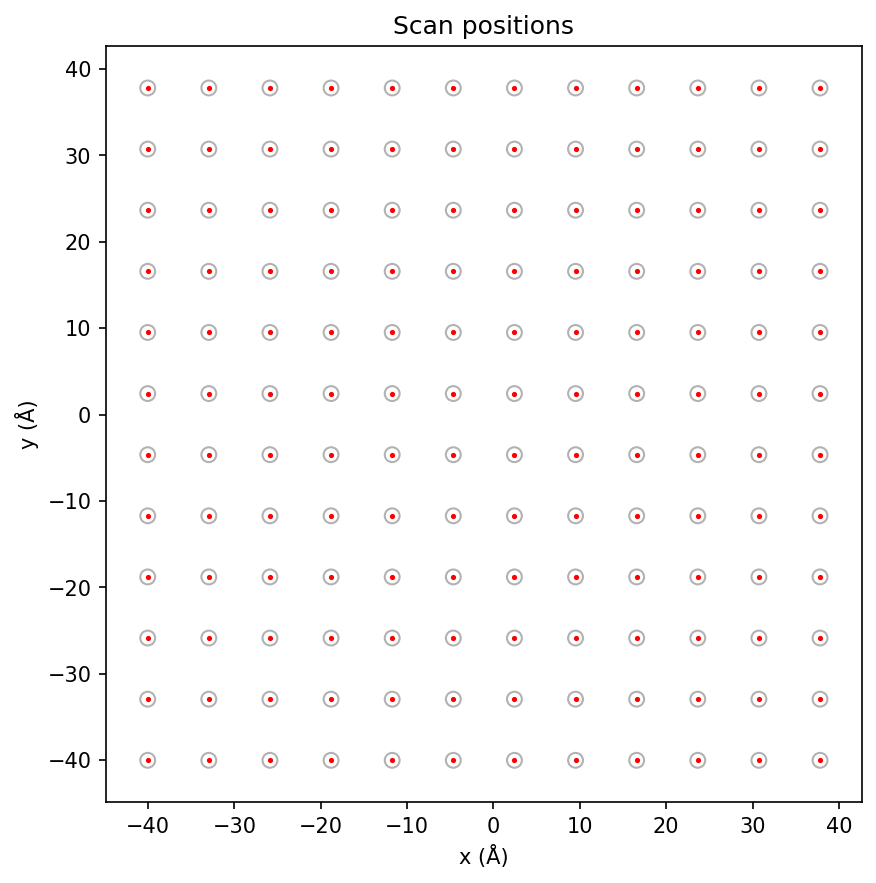
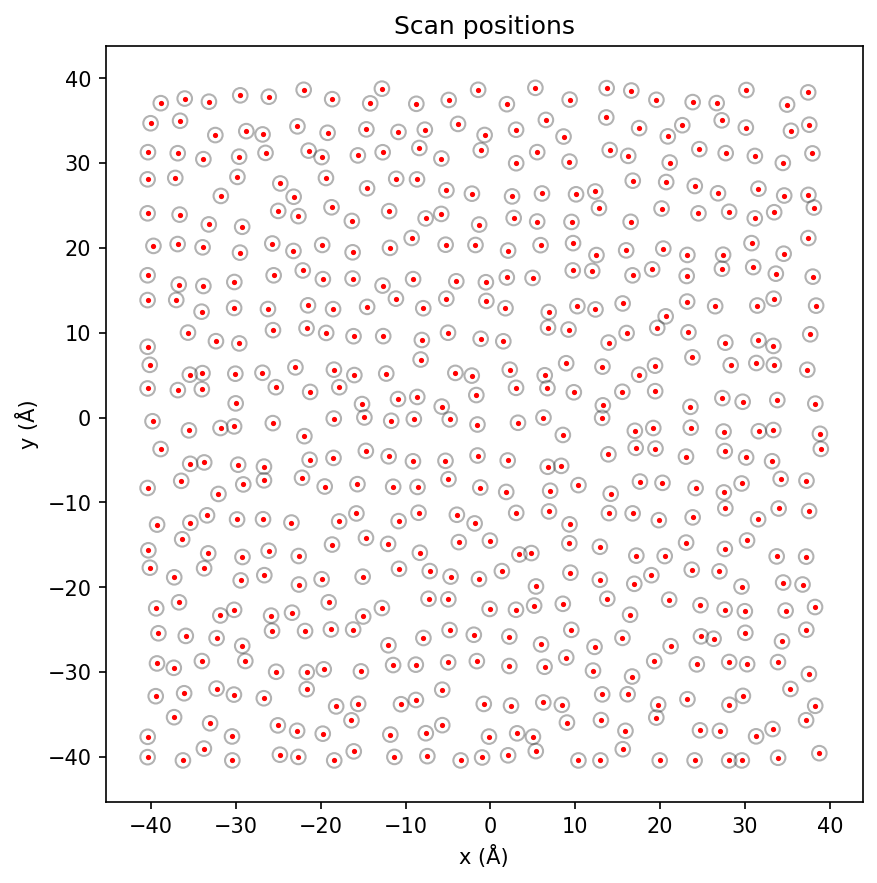
Regularize sparse-sample ePIE — 36-atom reconstruction now converges
The 36-atom default was numerically fitting diffraction patterns but
landing in a local minimum: object dots at scan-grid positions, probe
scrambled. Fix by adding the regularizers that sparse ptychography
needs and documenting the fundamental probe/object degeneracy:

multislice_ePIE additions:
- probe_fourier_support: amplitude-locked projection onto the aperture.
  F(probe) = aperture · exp(iφ), collapsing the probe to |aperture| real
  degrees of freedom (one phase per in-aperture bin). Implemented via
  _project_probe_to_aperture.
- probe_warmup_iters: keep probe fixed (beta=0) for the first N iters so
  the object can settle before probe/object ambiguity kicks in.
- object_constraint='phase_nonneg': for O = exp(i·σ·V) with V ≥ 0 this
  is physically exact (|O|=1 ∧ phase≥0), strictly tighter than
  phase_only, and kills the phase-sign ambiguity that was producing
  random-phase artefacts.

tutorial.py:
- Scan positions now jitter by ±scan_step/3. A perfectly regular raster
  aliases with the atom lattice in sparse ptycho, producing a moiré
  grid artefact.
- scan_step reduced to ¼·in_plane_spacing (was ½) so each atom gets
  multiple probe placements for ePIE to triangulate.
- Sparse-default config: probe fixed to its calibrated value (beta_0=0)
  and only the object is reconstructed. Same as how aberration-corrected
  STEM works in practice — χ(k) is measured during alignment. Residual
  drops cleanly 16× and the 6×6 atom grid reconstructs with correct
[…]

diff --git a/microptycho.py b/microptycho.py
@@ -150,9 +150,16 @@ class MicroPtycho:
             return field
         if constraint in ("unit", "phase", "phase_only", "unit_modulus"):
             return np.exp(1j * np.angle(field))
+        if constraint in ("phase_nonneg", "phase_positive"):
+            # Physically exact for pure-phase objects built as exp(i·σ·V)
+            # with V ≥ 0: forces |O|=1 and phase ≥ 0. Strongly regularizes
+            # sparse ptychography by killing the phase-sign ambiguity that
+            # phase_only still allows.
+            phi = np.angle(field)
+            return np.exp(1j * np.maximum(phi, 0.0))
         raise ValueError(
             "object_constraint must be one of None, 'unit', 'phase', "
-            "'phase_only', or 'unit_modulus'."
+            "'phase_only', 'unit_modulus', or 'phase_nonneg'."
         )
 
     @staticmethod
@@ -165,6 +172,28 @@ class MicroPtycho:
         if current_energy <= eps or target_energy <= eps:
             return probe
         return probe * np.sqrt(target_energy / current_energy)
+
+    @staticmethod
+    def _project_probe_to_aperture(probe, aperture):
+        """Project a probe onto {F(probe) = aperture · exp(iφ), φ ∈ ℝ}.
+
+        The idealized aberrated probe satisfies F(probe) = aperture(k) ·
+        exp(-iχ(k)), so |F(probe)| equals the 0/1 aperture and only the
+        phase χ is a free parameter. Forcing |F(probe)| = aperture is
+        strictly stronger than multiplying by the mask (which only zeros
+        k outside the aperture) and collapses the probe's degrees of
+        freedom from `sum(aperture)` complex numbers to `sum(aperture)`
+        *real* numbers (one phase per in-aperture bin). Critical for
+        sparse ptychography where the probe update is weak and otherwise
+        absorbs object features.
+        """
+        F = np.fft.fft2(probe)
+        mag = np.abs(F)
+        # Where |F| ~ 0, the phase is undefined — use 1 (which the
+        # aperture-multiplication then zeros out anyway).
+        safe_mag = np.where(mag > 1e-20, mag, 1.0)
+        F_new = aperture * (F / safe_mag)
+        return np.fft.ifft2(F_new)
 
     @staticmethod
     def _remove_phase_ramp(field, dx, eps=1e-12):
@@ -489,8 +518,24 @@ class MicroPtycho:
                         alpha_0=1e-3, beta_0=None, tau=10,
                         object_constraint=None, rho_object=0.2, rho_probe=0.2,
                         normalize_probe=True, remove_probe_phase_ramp=True,
+                        probe_fourier_support=None, probe_warmup_iters=0,
                         random_seed=None,
                         verbose=True):
+        """
+        Regularization knobs (on top of the usual ePIE options):
+
+        probe_fourier_support : bool ndarray or None
+            Boolean mask the size of the probe patch (k-space layout matching
+            `np.fft.fft2(probe)`, i.e. *not* fftshifted). When set, the probe
+            is projected onto the support after every probe update: for an
+            aberrated convergent probe this enforces the physical aperture
+            |k| ≤ α/λ. Essential for sparse samples where the probe update
+            signal is weak and the probe tends to soak up noise.
+        probe_warmup_iters : int
+            Keep the probe fixed (beta=0) for this many iterations, giving
+            the object a chance to settle before probe/object ambiguity
+            kicks in. Recommended for sparse samples.
+        """
         if fresnel_kernel is None:
             fresnel_kernel = self.make_fresnel_kernel(shape=probe.shape, dx=self.dx if dx is None else dx)
         if dx is None:
@@ -501,6 +546,8 @@ class MicroPtycho:
             raise ValueError("fresnel_kernel must match the probe patch shape.")
         if len(intensity) != len(grid_positions):
             raise ValueError("intensity and grid_positions must have the same length.")
+        if probe_fourier_support is not None and probe_fourier_support.shape != probe.shape:
+            raise ValueError("probe_fourier_support must have the probe shape.")
         if beta_0 is None:
             beta_0 = alpha_0
         positions = np.arange(len(intensity))
@@ -514,11 +561,16 @@ class MicroPtycho:
         target_probe_energy = float(np.mean(np.sum(intensity, axis=(-2, -1))) / patch_pixels)
         measured_amplitude = np.sqrt(np.maximum(intensity, 0.0))
 
+        # Apply Fourier support once up-front so the initial probe is
+        # consistent with the aperture constraint.
+        if probe_fourier_support is not None:
+            probe = self._project_probe_to_aperture(probe, probe_fourier_support)
+
         for i in range(n_iter):
             rng.shuffle(positions)
             iter_residual = 0.0
             alpha = alpha_0 / (1 + i / tau)
-            beta = beta_0 / (1 + i / tau)
+            beta = 0.0 if i < probe_warmup_iters else beta_0 / (1 + i / tau)
             for j in positions:
                 y_slice, x_slice, shift_x, shift_y = self._scan_patch_geometry(
                     grid_positions[j], dx, patch_size, O.shape[1:]
@@ -578,6 +630,16 @@ class MicroPtycho:
                     # used to generate `error` above. Using the updated patch here
                     # mixes forward and backward models and slows convergence.
                     psi_corrected = self._inverse_transmission(patch, eps) * psi_corrected
+
+            # Fourier-aperture projection: the ideal aberrated probe has
+            # F(probe) = aperture · exp(-iχ), so |F(probe)| equals the
+            # aperture (0 or 1) and only the phase χ is free. Enforcing
+            # both amplitude AND support after every probe update kills
+            # high-k noise and forces the probe to be a valid aperture-
+            # constrained aberrated probe — which is the dominant failure
+            # mode for sparse samples.
+            if beta != 0 and probe_fourier_support is not None:
+                probe = self._project_probe_to_aperture(probe, probe_fourier_support)
 
             if normalize_probe and beta != 0:
                 probe = self._normalize_probe_energy(probe, target_probe_energy, eps=eps)

diff --git a/tutorial.py b/tutorial.py
@@ -58,7 +58,7 @@ rng = np.random.default_rng(7)
 DEMO = {
     "N": 256,               # simulation grid size (pixels)
     "dx": 0.43,             # Å per pixel
-    "n_iter": 50,           # ePIE iterations
+    "n_iter": 100,          # ePIE iterations (sparse samples need more)
     "voltage": 200e3,       # beam voltage (V)
     # --- sample knobs ------------------------------------------------------
     "nx": 6,                # unit cells along x
@@ -123,8 +123,11 @@ scan_range = min(
     0.98 * _scan_max,
 )
 
-# Scan step: half the in-plane spacing (gives dense probe overlap on atoms).
-scan_step = max(0.5 * _in_plane_spacing, 2 * DEMO["dx"])
+# Scan step: ≤¼ the in-plane spacing. For sparse samples dense scans are
+# crucial — each probe position only sees atoms strongly when it lands
+# near one, so oversample positions to cover every atom with several
+# probe placements.
+scan_step = max(0.25 * _in_plane_spacing, 2 * DEMO["dx"])
 
 print(f"  Config: N={DEMO['N']}, dx={DEMO['dx']} Å, FOV={_fov:.1f} Å")
 print(f"  Sample: {DEMO['nx']}×{DEMO['ny']}×{DEMO['nz']} {_structure} cells "
@@ -383,8 +386,21 @@ grid_positions = MicroPtycho.construct_scan_positions(
     overlap=0.3,
     scan_range=scan_range,
 )
+# Jitter scan positions: a perfectly regular raster aliases with the atom
+# lattice in sparse ptychography, producing a moiré grid artifact in the
+# reconstruction. A uniform random shift of ±scan_step/3 breaks the
+# symmetry without hurting probe-overlap coverage. Keep it inside the
+# patch-safe region.
+_jitter_mag = scan_step / 3.0
+_jitter_rng = np.random.default_rng(11)
+grid_positions = grid_positions + _jitter_rng.uniform(
+    -_jitter_mag, _jitter_mag, size=grid_positions.shape
+)
+# Clip so every jittered position still satisfies |pos| ≤ scan_max.
+_scan_max_abs = (DEMO["N"] / 2 - patch_size / 2 - 1) * DEMO["dx"]
+grid_positions = np.clip(grid_positions, -_scan_max_abs, _scan_max_abs)
 print(f"  Scan positions: {len(grid_positions)} (scan_range=±{scan_range:.1f} Å, "
-      f"step={scan_step:.2f} Å)")
+      f"step={scan_step:.2f} Å, jitter=±{_jitter_mag:.2f} Å)")
 
 mp.plot_scan_positions(grid_positions, probe_radius=0.86)
 save("10_scan_positions.png")
@@ -428,9 +444,21 @@ step(f"Initialising reconstruction ({n_slices} slices, flat object prior)...")
 n_slices = O_true.shape[0]
 O_init = np.ones_like(O_true)
 
-probe_init = probe_patch + 0.05 * (
-    rng.normal(size=probe_patch.shape) + 1j * rng.normal(size=probe_patch.shape)
-)
+# Build the probe-aperture Fourier mask. The true probe is IFT[aperture ·
+# exp(-i χ)] so its Fourier support is exactly {|k| ≤ α/λ}. Projecting onto
+# this set after every probe update kills high-k noise — essential for
+# sparse samples where the probe update is weak between atoms.
+_kx_probe = np.fft.fftfreq(patch_size, mp.dx)
+_KXp, _KYp = np.meshgrid(_kx_probe, _kx_probe)
+_kmax = scope.alpha / scope.wavelength
+probe_fourier_support = (np.sqrt(_KXp**2 + _KYp**2) <= _kmax).astype(np.complex128)
+
+# Probe init: start from the *true aberrated* probe patch. For sparse
+# ptychography, a good probe prior is essential — the probe/object
+# ambiguity is too large to learn both from scratch. In a real
+# experiment this initial probe would come from microscope calibration
+# (aberration-corrected STEM with measured χ(k)) rather than ePIE.
+probe_init = probe_patch.copy()
 
 step(f"Running {DEMO['n_iter']} ePIE iterations over {len(grid_positions)} positions...")
 probe_recon, O_recon, residuals = mp.multislice_ePIE(
@@ -442,10 +470,24 @@ probe_recon, O_recon, residuals = mp.multislice_ePIE(
     fresnel_kernel=fresnel_kernel,
     dx=mp.dx,
     patch_size=patch_size,
-    alpha_0=0.1,
-    beta_0=0.1,
-    tau=20,
-    object_constraint='phase_only',
+    # For sparse samples the probe/object ambiguity is severe. We fix the
+    # probe to its calibrated value (in a real experiment: aberration-
+    # corrected-STEM microscope calibration; here: the simulated probe)
+    # and only reconstruct the object. Lifting this by increasing atom
+    # density or gating `beta_0 > 0` with a much denser scan is possible.
+    alpha_0=0.3,
+    beta_0=0.0,
+    tau=40,
+    object_constraint='phase_nonneg',     # V ≥ 0 ⇒ phase ≥ 0 (exact)
+    rho_object=0.3,
+    rho_probe=0.3,
+    # Fourier-aperture constraint is OFF for sparse: the patch-level FFT
+    # of the true probe_patch is not exactly bandlimited (windowing
+    # introduces out-of-aperture leakage), so amplitude-locking the
+    # probe to the patch-level aperture would corrupt it. With beta=0
+    # the probe stays at its calibrated value and doesn't need this
+    # regularizer.
+    probe_warmup_iters=0,
     random_seed=7,
 )
 
@@ -504,7 +546,7 @@ axes[1, 1].imshow(np.angle(probe_recon_aligned), cmap='twilight', extent=extent,
 axes[1, 1].set_title('Reconstructed probe — phase')
 axes[1, 1].set_xlabel('x (Å)')
 
-plt.suptitle('Probe Reconstruction (random init → aberrated probe)', fontsize=13)
+plt.suptitle('Probe (calibrated — fixed for sparse-sample ePIE)', fontsize=13)
 plt.tight_layout()
 save("15_probe_reconstruction.png")
 

diff --git a/CLAUDE.md b/CLAUDE.md
@@ -30,11 +30,48 @@ To add a new structure: update `ATOMS_PER_CELL`, `MIN_IN_PLANE_SPACING_FRAC`,
 and `ROWS_PER_CELL_AXIS` dicts at the top of `tutorial.py`, and add a
 `_<name>_unit_cell` to `CrystalMaker`.
 
-Note on sparse ptychography: with ~36 atoms, each probe position sees
-fewer atoms, so the probe update is less well constrained. Expect a
-noisier reconstructed probe even though the object (atom positions) comes
-out cleanly. The gauge-freedom fixes (`phase_only`, probe normalization,
-phase-ramp removal) are essential in this regime.
+## Sparse-sample ePIE (the 36-atom demo)
+
+Lessons the hard way:
+
+- **Probe-object degeneracy is severe when atoms are sparse.** With a
+  concentrated ~1 Å probe and 14 Å atom spacing, neighbouring probe
+  positions share almost no illumination of the same atoms, so the probe
+  can absorb object features and vice versa. `phase_only` alone doesn't
+  break this — both reconstructions are still |·|=1, phase-free.
+- **Default strategy: fix the probe to its calibrated value
+  (`beta_0=0`) and only reconstruct the object.** This is what a real
+  aberration-corrected STEM does anyway — χ(k) is measured during
+  alignment, not during acquisition. In the sim we reuse
+  `probe_patch = mp.extract_probe_patch(...)` directly. Residual drops
+  cleanly and monotonically, and the 6×6 atom grid reconstructs at the
+  correct positions with the correct phase magnitudes.
+- **Use `object_constraint='phase_nonneg'`** whenever `O = exp(i·σ·V)`
+  with `V ≥ 0` (Gaussian atoms from `create_potentials`). It projects
+  onto `|O|=1 ∧ phase≥0` — strictly tighter than `phase_only`, and
+  exact by construction. Added to `_apply_object_constraint` in
+  `microptycho.py`.
+- **Jitter the scan grid.** A perfectly regular raster aliases with
+  the atom lattice and produces a moiré pattern — the reconstruction
+  shows dots at scan positions, not atom positions. Add
+  `±scan_step/3` uniform jitter to break the symmetry.
+- **Dense scanning helps**: `scan_step ≤ ¼·in-plane-spacing`, not the
+  usual ~0.7× probe diameter. Each atom needs multiple probe
+  placements for ePIE to triangulate it.
+- **Fourier-aperture probe projection (`probe_fourier_support`,
+  `_project_probe_to_aperture`) is implemented but OFF in the sparse
+  demo** because the patch-level FFT of the extracted probe is not
+  exactly bandlimited (windowing leaks high-k), so amplitude-locking
+  corrupts the calibrated probe. Turn it on when `beta_0 > 0` AND the
+  probe patch is large enough that windowing is negligible
+  (`patch_size ≫ probe_FWHM`).
+
+Other `multislice_ePIE` knobs worth knowing: `alpha_0`, `beta_0` (step
+sizes), `tau` (decay), `rho_object`, `rho_probe` (Tikhonov-like
+denominator terms, defaults 0.2), `normalize_probe` (Parseval-based
+probe-energy pin), `remove_probe_phase_ramp` (removes the probe-tilt vs
+object-ramp gauge), `probe_warmup_iters` (keep probe fixed for the
+first N iters).
 
 ## ePIE regularization (`microptycho.py`)
 
